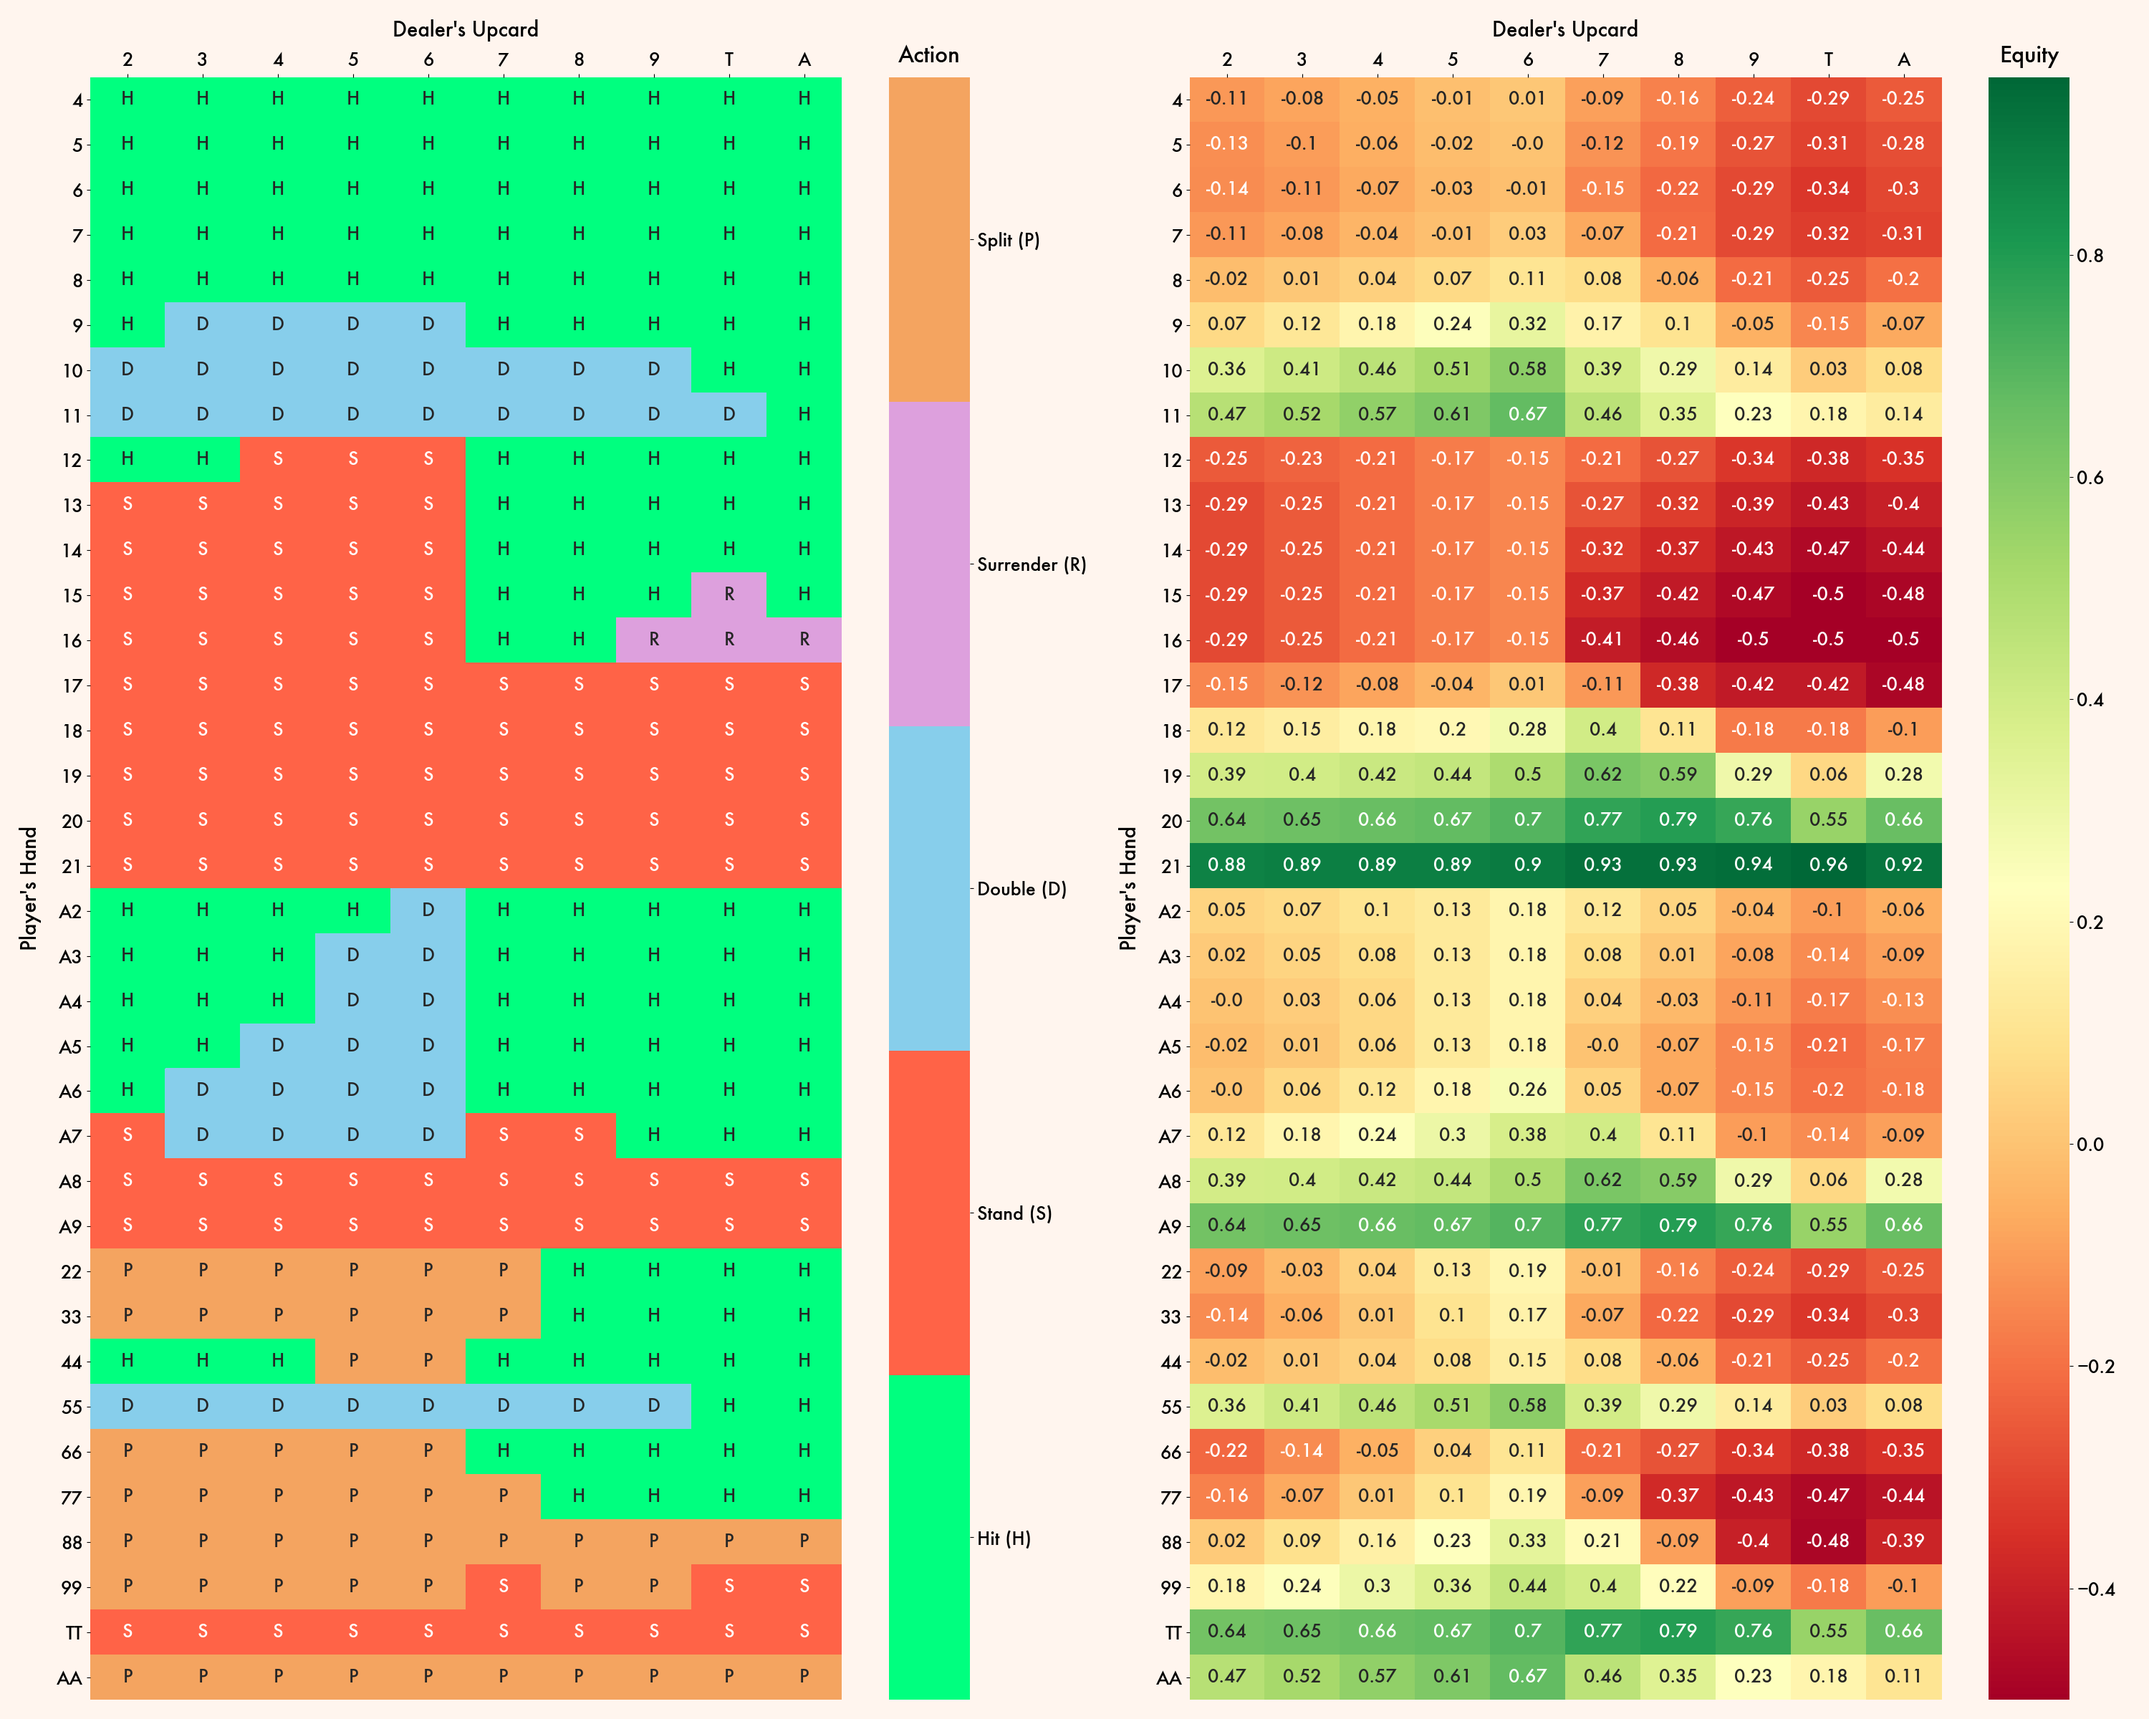
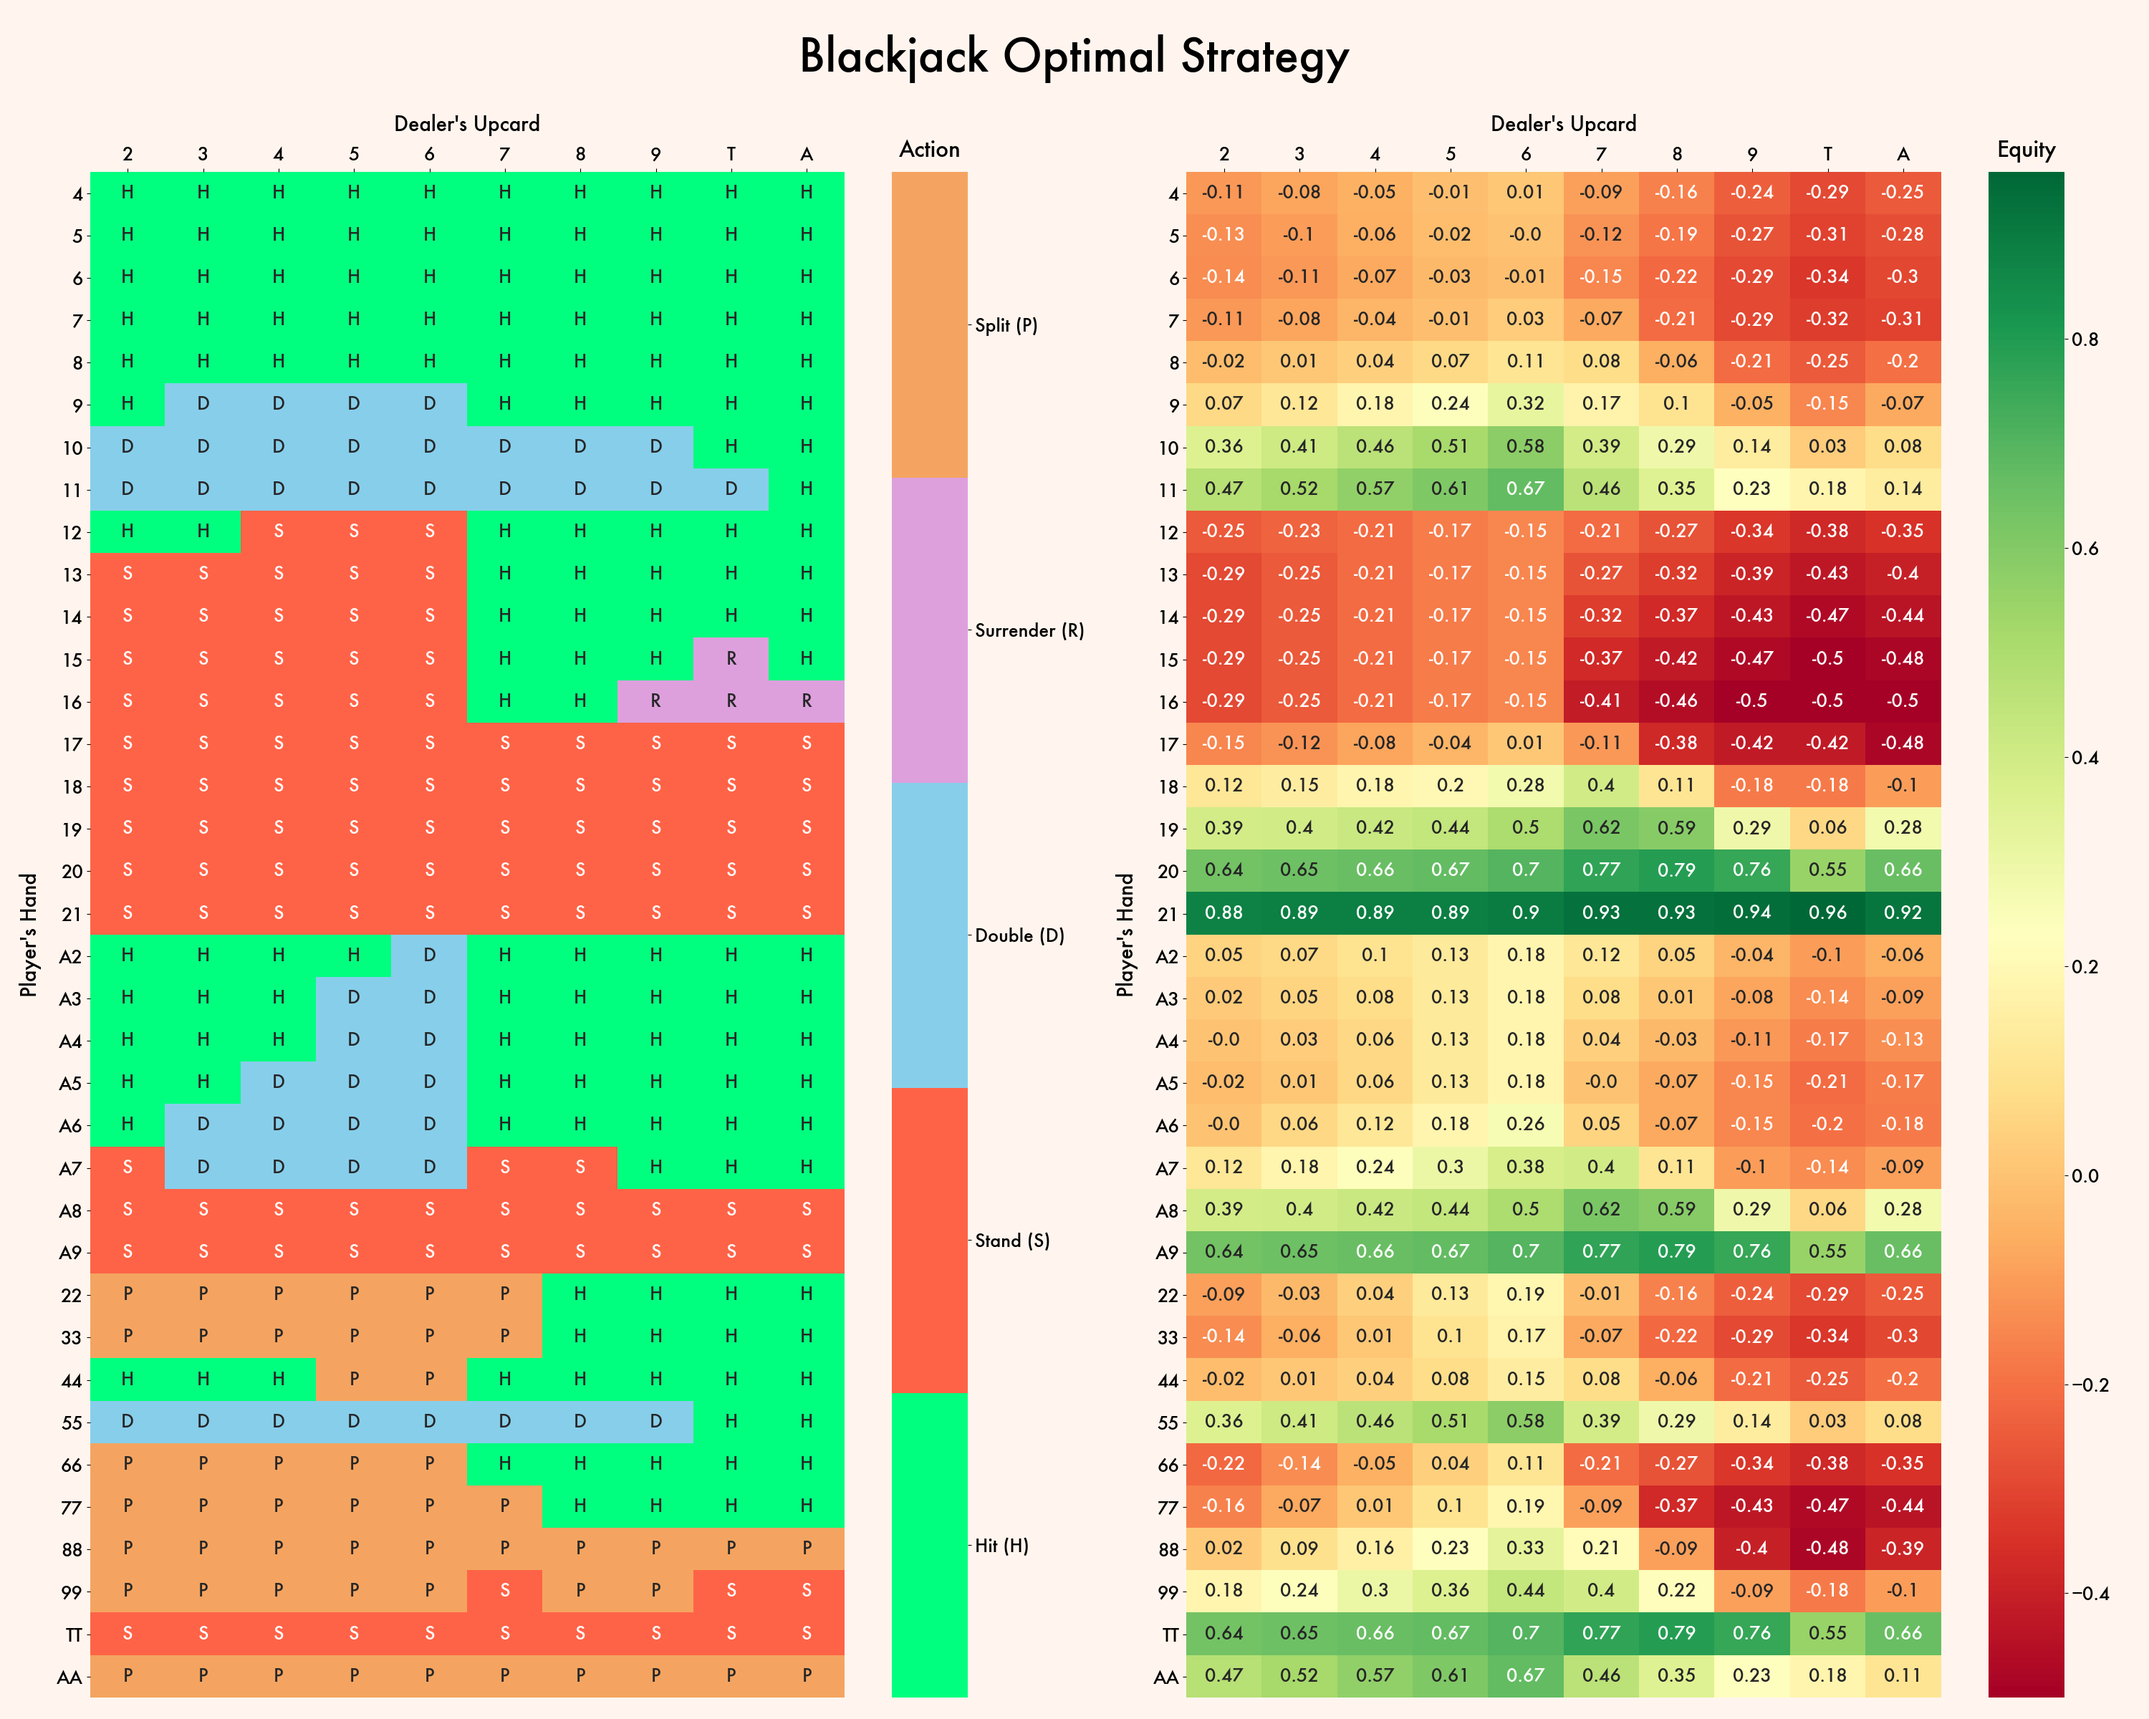
updated image

diff --git a/equity_visualizations.py b/equity_visualizations.py
@@ -67,9 +67,15 @@ for i in [0, 1]:
     ax[i].tick_params(axis='y', labelrotation=0)
     ax[i].set_xlabel("Dealer's Upcard", size=20, labelpad=15, weight='semibold', family="Futura")
     ax[i].set_ylabel("Player's Hand", size=20, labelpad=15, weight='semibold', family="Futura")
+    ax[i].figure.subplots_adjust(bottom = 0.5, top=0.9, left=0.2, right=0.8)
 fig.patch.set_facecolor('seashell')
-plt.tight_layout() 
+fig.patch.set_height(30)
+fig.patch.set_width(40)
+plt.tight_layout()
+plt.subplots_adjust(top=0.9)
+fig.suptitle('Blackjack Optimal Strategy', fontsize=45)
 fig.savefig("images/optimal_actions.png", facecolor=fig.get_facecolor())
+
 
 fig, ax = plt.subplots(figsize=(14, 18))
 sns.heatmap(
@@ -90,4 +96,9 @@ ax.set_xlabel("Dealer's Upcard", size=20, labelpad=15, weight='semibold', family
 ax.set_ylabel("Player's Hand", size=20, labelpad=15, weight='semibold', family="Futura")
 cbar = ax.collections[0].colorbar 
 cbar.ax.set_title("Equity", pad=15)
-fig.savefig("images/combined_equity.png")
+fig.patch.set_facecolor('seashell')
+plt.subplots_adjust(top=0.89, left=0.2)
+fig.suptitle('Blackjack Optimal Strategy', fontsize=32)
+
+plt.show()
+fig.savefig("images/combined_equity.png", facecolor=fig.get_facecolor())
